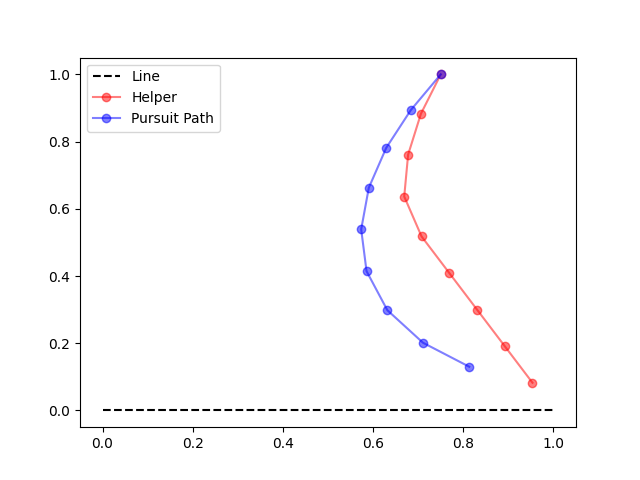
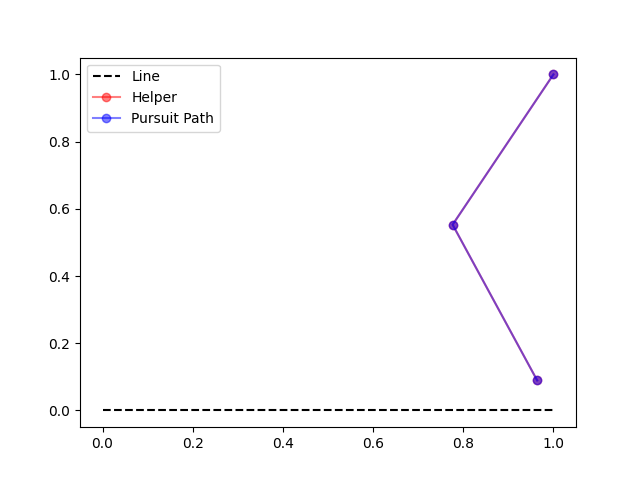
Adds alternative recursive approach

diff --git a/expected-recursive-2.py b/expected-recursive-2.py
@@ -1,0 +1,61 @@
+import numpy as np
+import matplotlib.pyplot as plt
+
+def new_position(h: np.ndarray, target: np.ndarray, n: int) -> np.ndarray:
+    return h + (1/n) * (target - h) / np.linalg.norm(target - h)
+
+def distance(h: np.ndarray, target: np.ndarray) -> float:
+    return np.linalg.norm(target - h)
+
+def get_solution(h: np.ndarray, i: int, n: int):
+    if i == n:
+        hprime = new_position(h, np.array([1, 0]), n)
+        delay = distance(hprime, np.array([1, 0]))
+        return 1 + delay, []
+    Fi = np.linspace(i/n, 1, n - i + 1)
+    
+    min_value = float('inf')
+    points = []
+    
+    # Minimize over f in F_i
+    for f in Fi:
+        h_prime = new_position(h, np.array([f, 0]), n)
+        t1 = 1 + distance(h_prime, np.array([i/n, 0]))
+        t2, sub_points = get_solution(h_prime, i + 1, n)
+        
+        current_value = (1/len(Fi)) * t1 + (1 - 1/len(Fi)) * t2
+        
+        if current_value < min_value:
+            min_value = current_value
+            points = [h_prime] + sub_points
+    
+    return min_value, points
+
+def main():
+    # Call the function
+    initial_position = np.array([1, 1])
+    min_value, points = get_solution(initial_position, 1, 8)
+
+    all_points = [initial_position] + points
+
+    # Convert points to format for plotting
+    x_values = [p[0] for p in all_points]
+    y_values = [p[1] for p in all_points]
+
+    # Plot the points
+    plt.plot(x_values, y_values, marker='o', linestyle='-', color='b', markersize=5)
+    plt.scatter([0, 1], [0, 0]) # Highlight the extra points
+    plt.xlabel('x')
+    plt.ylabel('y')
+    plt.title('Recursive Positions and Extra Points')
+    plt.grid(True)
+    plt.legend()
+    plt.savefig('expected-recursive-2.png')
+
+    # Print the results
+    print(f"Expected delivery time: {min_value:0.4f}")
+    path_str = ' -> '.join([f'({p[0]:0.2f}, {p[1]:0.2f})' for p in all_points])
+    print(f"Path: {path_str}")
+
+if __name__ == '__main__':
+    main()

diff --git a/expected-recursive.py b/expected-recursive.py
@@ -64,8 +64,8 @@ def get_pursuit_point(helper_start: np.ndarray, num_points: int) -> np.ndarray:
     return np.array(path)
 
 def main():
-    NPOINTS = 9
-    helper_start = np.array([3/4, 1.0])
+    NPOINTS = 3
+    helper_start = np.array([1.0, 1.0])
     fail_points = np.array([x for x in np.linspace(0, 1, NPOINTS)])[1:]
     print(fail_points)
     path, delivery_time = get_solution(0, array_to_tuple(helper_start), array_to_tuple(fail_points))
